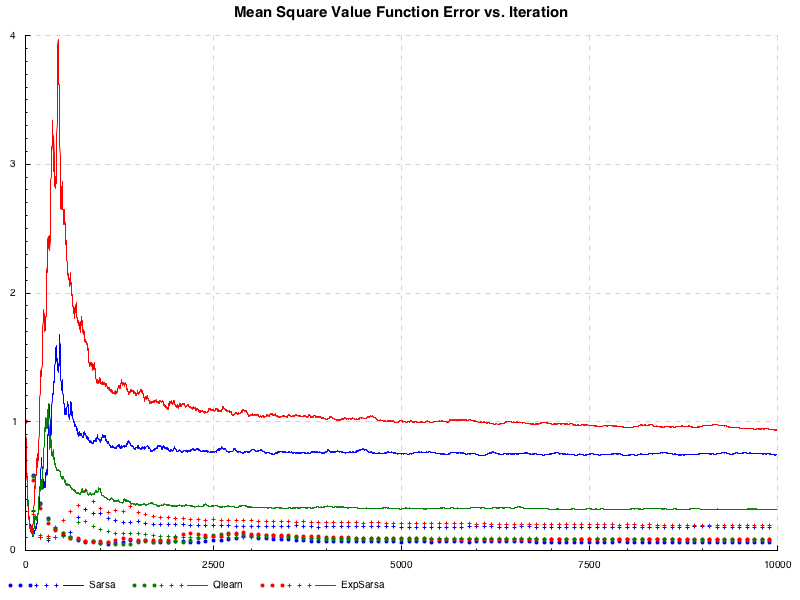
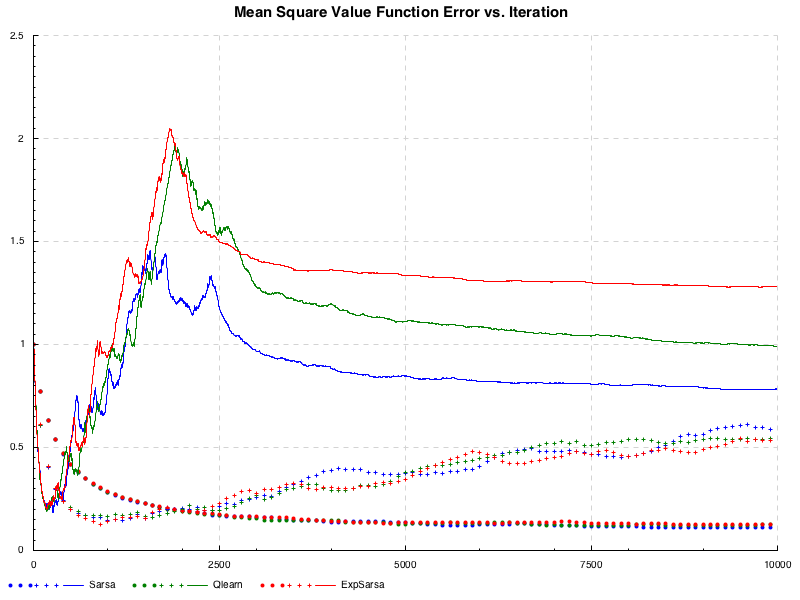
Capturing experiments on montecarlo branch, from Target MacBook.

diff --git a/inventory.html b/inventory.html
@@ -148,11 +148,9 @@ finToState (<span class="dt">Finite</span> n) <span class="fu">=</span> <span cl
 <span class="kw">instance</span> <span class="dt">MDP</span> <span class="dt">MyState</span> <span class="kw">where</span>
   <span class="kw">type</span> <span class="dt">ActionT</span> <span class="dt">MyState</span> <span class="fu">=</span> <span class="dt">MyAction</span>
   actions <span class="dt">MyState</span>{<span class="fu">..</span>} <span class="fu">=</span> map finite <span class="fu">$</span>
-    <span class="co">-- if getFinite epoch `mod` gLeadTime /= 0</span>
     <span class="kw">if</span> epoch <span class="fu">==</span> <span class="dv">0</span>    
       <span class="kw">then</span> [<span class="dv">0</span><span class="fu">..</span>gMaxOrder]
-      <span class="co">-- else [0]</span>
-      <span class="kw">else</span> replicate (fromIntegral gMaxOrder <span class="fu">+</span> <span class="dv">1</span>) <span class="dv">0</span>
+      <span class="kw">else</span> [<span class="dv">0</span>]
   jointPMF <span class="dt">MyState</span>{<span class="fu">..</span>} a <span class="fu">=</span>
     [ ((s&#39;, r), p)
     <span class="fu">|</span> demand <span class="ot">&lt;-</span> [<span class="dv">0</span><span class="fu">..</span>gMaxDemand]
@@ -344,15 +342,13 @@ main <span class="fu">=</span> <span class="kw">do</span>
     forM_ (zip (P.init erss) [<span class="dt">PointShapeCircle</span>, <span class="dt">PointShapePlus</span>]) <span class="fu">$</span> \ (ers, ptShape) <span class="ot">-&gt;</span> <span class="kw">do</span>
       setColors <span class="fu">$</span> map opaque [blue, green, red]
       setShapes [ptShape]
-      <span class="co">-- forM_ (zip [&quot;Sarsa&quot;, &quot;Qlearn&quot;, &quot;ExpSarsa&quot;] ers) $ \ (lbl, er) -&gt;</span>
-      forM_ (zip [<span class="st">&quot;Sarsa&quot;</span>, <span class="st">&quot;Qlearn&quot;</span>] ers) <span class="fu">$</span> \ (lbl, er) <span class="ot">-&gt;</span>        
+      forM_ (zip [<span class="st">&quot;Sarsa&quot;</span>, <span class="st">&quot;Qlearn&quot;</span>, <span class="st">&quot;ExpSarsa&quot;</span>] ers) <span class="fu">$</span> \ (lbl, er) <span class="ot">-&gt;</span>
            plot ( points lbl
                          [ (x,y)
                          <span class="fu">|</span> (x,y) <span class="ot">&lt;-</span> takeEvery (nIters <span class="ot">`div`</span> <span class="dv">100</span>) <span class="fu">$</span> zip [(<span class="dv">0</span><span class="ot">::</span><span class="dt">Int</span>)<span class="fu">..</span>] er
                          ]
                 )
-    <span class="co">-- forM_ (zip [&quot;Sarsa&quot;, &quot;Qlearn&quot;, &quot;ExpSarsa&quot;] (P.last erss)) $ \ (lbl, er) -&gt;</span>
-    forM_ (zip [<span class="st">&quot;Sarsa&quot;</span>, <span class="st">&quot;Qlearn&quot;</span>] (P.last erss)) <span class="fu">$</span> \ (lbl, er) <span class="ot">-&gt;</span>      
+    forM_ (zip [<span class="st">&quot;Sarsa&quot;</span>, <span class="st">&quot;Qlearn&quot;</span>, <span class="st">&quot;ExpSarsa&quot;</span>] (P.last erss)) <span class="fu">$</span> \ (lbl, er) <span class="ot">-&gt;</span>
          plot ( line lbl
                        [[ (x,y)
                         <span class="fu">|</span> (x,y) <span class="ot">&lt;-</span> zip [(<span class="dv">0</span><span class="ot">::</span><span class="dt">Int</span>)<span class="fu">..</span>] er

diff --git a/windygrid.html b/windygrid.html
@@ -379,7 +379,7 @@ main <span class="fu">=</span> <span class="kw">do</span>
   appendFile mdFilename <span class="st">&quot;\n## debug\n\n&quot;</span>
 
   <span class="co">-- DEBUGGING</span>
-  print <span class="fu">$</span> length resss
+  <span class="co">-- print $ length resss</span>
   
   appendFile mdFilename <span class="st">&quot;\n#### State Visits\n\n&quot;</span>
   <span class="kw">let</span> qM <span class="fu">=</span> P.last <span class="fu">$</span> qMats <span class="fu">$</span> P.last <span class="fu">$</span> P.last resss
@@ -495,19 +495,19 @@ line: alpha=0.5</p>
 <h4 id="state-visits">State Visits</h4>
 <span class="math display">\[\begin{array}{|c|c|c|c|c|c|c|c|c|c|}
 \hline
-213 &amp; 263 &amp; 319 &amp; 448 &amp; 824 &amp; 4062 &amp; 4714 &amp; 6024 &amp; 16196 &amp; 17937 \\
+338 &amp; 344 &amp; 442 &amp; 625 &amp; 3826 &amp; 7693 &amp; 9640 &amp; 11144 &amp; 11534 &amp; 7854 \\
 \hline
-260 &amp; 286 &amp; 270 &amp; 344 &amp; 521 &amp; 1818 &amp; 726 &amp; 2786 &amp; 5811 &amp; 19651 \\
+366 &amp; 376 &amp; 372 &amp; 366 &amp; 3164 &amp; 2136 &amp; 225 &amp; 809 &amp; 462 &amp; 10710 \\
 \hline
-329 &amp; 565 &amp; 393 &amp; 595 &amp; 533 &amp; 4551 &amp; 2195 &amp; 15892 &amp; 7518 &amp; 21107 \\
+481 &amp; 529 &amp; 405 &amp; 742 &amp; 3167 &amp; 275 &amp; 140 &amp; 2100 &amp; 310 &amp; 9928 \\
 \hline
-S &amp; 857 &amp; 520 &amp; 748 &amp; 447 &amp; 4668 &amp; 5843 &amp; G &amp; 230 &amp; 20230 \\
+S &amp; 8955 &amp; 920 &amp; 8476 &amp; 346 &amp; 223 &amp; 118 &amp; G &amp; 294 &amp; 9251 \\
 \hline
-467 &amp; 19859 &amp; 1026 &amp; 707 &amp; 12988 &amp; 12722 &amp; 11431 &amp; 21818 &amp; 250 &amp; 19424 \\
+783 &amp; 1393 &amp; 8765 &amp; 456 &amp; 400 &amp; 235 &amp; 96 &amp; 5898 &amp; 8311 &amp; 832 \\
 \hline
-367 &amp; 29196 &amp; 644 &amp; 38804 &amp; 25670 &amp; 8865 &amp; 9772 &amp; 12039 &amp; 18262 &amp; 593 \\
+468 &amp; 803 &amp; 861 &amp; 601 &amp; 373 &amp; 166 &amp; 58 &amp; 4105 &amp; 212 &amp; 531 \\
 \hline
-240 &amp; 360 &amp; 38644 &amp; 494 &amp; 19534 &amp; 8527 &amp; 5859 &amp; 69 &amp; 134 &amp; 215 \\
+389 &amp; 475 &amp; 758 &amp; 698 &amp; 281 &amp; 121 &amp; 25 &amp; 8 &amp; 96 &amp; 280 \\
 \hline
 \end{array}\]</span>
 <hr />

diff --git a/blackjack.html b/blackjack.html
@@ -48,7 +48,7 @@ Original date: May 17, 2018</p>
 
 <span class="kw">import qualified</span> <span class="dt">Data.Vector.Sized</span> <span class="kw">as</span> <span class="dt">VS</span>
 
-<span class="kw">import </span><span class="dt">Control.Arrow</span>          ((***), (&amp;&amp;&amp;))
+<span class="co">-- import Control.Arrow          ((***), (&amp;&amp;&amp;))</span>
 <span class="kw">import </span><span class="dt">Data.MemoTrie</span>
 <span class="kw">import </span><span class="dt">Data.Finite</span>
 <span class="kw">import </span><span class="dt">Data.Finite.Internal</span>
